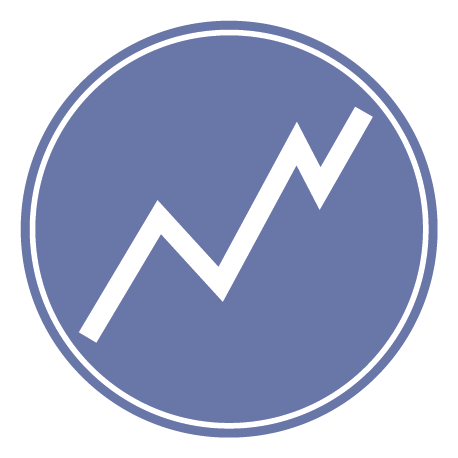
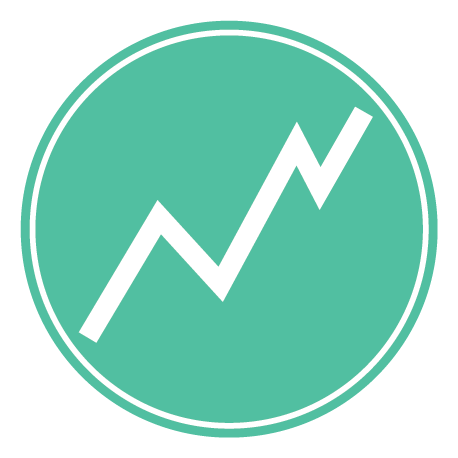
Made UI more consistent

diff --git a/src/components/Settings.js b/src/components/Settings.js
@@ -1,21 +1,73 @@
 import React from 'react';
-import { NavLink } from "react-router-dom";
+import { NavLink, Link } from "react-router-dom";
 import * as ROUTES from '../constants/routes';
 import firebase from './firebase.js';
 import Button from 'react-bootstrap/Button';
+import {Modal} from 'react-bootstrap';
+import { tsImportEqualsDeclaration } from '@babel/types';
+
 
 
 
 class settings extends React.Component {
 
+    constructor(props) {
+        super(props);
+        this.state = {
+            showDisclaimer:false,
+            errorMessage:''
+        }
+        this.handleSignOut = this.handleSignOut.bind(this);
+    }
+
+    handleSignOut() {
+    firebase.auth().signOut().catch(error => {
+        this.setState({ errorMessage: error.message });
+    }).then(this.props.history.push(ROUTES.LANDING));
+    }
+
     render() {
+        let showModal = () => {
+            this.setState({
+                showDisclaimer:true
+            });
+        }
+
+        let handleCloseDisclaimer = () => {
+            this.setState({
+                showDisclaimer:false
+            });
+        }
+
         return (
             <div className="settingsContainer">
                 <ul>
-                    <li>CLEAR DATA</li>
-                    <li>SEND REPORT</li>
-                    <li>PRIVACY</li>
-                    <NavLink to={ROUTES.QUESTIONNAIRE}><li>QUESTIONNAIRE</li></NavLink>
+                    <li onClick={showModal}>privacy</li>
+                    <Modal show={this.state.showDisclaimer} onHide={handleCloseDisclaimer}>
+                        <Modal.Header closeButton>
+                            <Modal.Title>Face Capture: Disclaimer</Modal.Title>
+                        </Modal.Header>
+                        <Modal.Body>
+                            <p>
+                            We will always ask for your permission before uploading your images to our database. It is important for us to store 
+                            this information as it allows us to look back on your skin health, and make better suggestions to your skincare routine.
+                            You will alwyas be in the driver's seat when it comes to what we store, as you have the ability to clear your data.
+                            </p>
+                            <p>
+                            Using the Face++ API, your uploaded picture will be scanned to get skin-health data.
+                            The scan will give us information related to the levels of acne, blemishes, dark circles, and general skin health.
+                            </p>
+                        </Modal.Body>
+                        <Modal.Footer>
+                            <Button onClick={handleCloseDisclaimer}>
+                                OK
+                            </Button>
+                        </Modal.Footer>
+                    </Modal>  
+                    <NavLink to={ROUTES.QUESTIONNAIRE}><li>questionnaire</li></NavLink>
+                    <Link to={ROUTES.LANDING} onClick={() => this.handleSignOut()}>
+                        <li>sign out</li>
+                    </Link>
                 </ul>
             </div>
         )

diff --git a/src/components/Customization.css b/src/components/Customization.css
@@ -15,12 +15,12 @@ div.customizationContainer div div.noProd {
     display:flex;
     justify-content: center;
     align-items: center;
-    border: 7px solid #6975A7;
+    border: 7px solid #2CD6A9;
 }
 
 div.customizationContainer div div.noProd h5 {
     font-style:italic;
-    color:#6975A7;
+    color:#2CD6A9;
 }
 
 /*Modal Search Bar*/
@@ -40,7 +40,7 @@ div.customizationContainer div.searchBar button.searchBtn {
 div.customizationContainer h3 {
     display:flex;
     justify-content:left;
-    color:#6975A7;
+    color:#2CD6A9;
 }
 
 div.customizationContainer div ul.productsList {
@@ -73,7 +73,7 @@ div.customizationContainer div ul.productsList li div.productItemContainer {
     height:100%;
     display:flex;
     flex-direction:row;
-    border-top:2px #6975A7 solid;
+    border-top:2px #2CD6A9 solid;
     padding-top:2rem;
     padding-bottom:2rem;
 }
@@ -128,7 +128,7 @@ div.customizationContainer div div.addContainer div.addButton:hover {
 }
 
 div.customizationContainer div ul.productsList li div.productItemContainer div.productBox {
-    border:7px solid #6975A7;
+    border:7px solid #2CD6A9;
     border-radius:10px;
     margin:16px;
     position:relative;
@@ -139,7 +139,7 @@ div.customizationContainer div ul.productsList li div.productItemContainer div.p
 }
 
 div.customizationContainer div ul.productsList li div.productItemContainer h6 {
-    color:#6975A7;
+    color:#2CD6A9;
     font-size:1.2rem;;
 }
 

diff --git a/src/App.css b/src/App.css
@@ -85,19 +85,19 @@ div.appContainer {
 }
 
 .mainNav div.container ul li a div.circle.one {
-  background-color:#DE5134;
+  background-color:#ff6347;
   background-size:contain;
   background-image:url('./images/icon_camera.png');
 }
 
 .mainNav div.container ul li a div.circle.two {
-  background-color:#6975A7;
+  background-color:#2CD6A9;
   background-size:contain;
   background-image:url('./images/icon_analytics.png');
 }
 
 .mainNav div.container ul li a div.circle.three {
-  background-color:#F3EA6B;
+  background-color:#29339B;
   background-size:contain;
   background-image:url('./images/icon_settings.png');
 }
@@ -131,7 +131,7 @@ div.appContainer {
 
 .mainNav div.settingsContainer {
   width:50rem;
-  border:5px solid #F3EA6B;
+  border:5px solid #29339B;
   border-radius:.5rem;
   margin:50px;
 }
@@ -140,7 +140,8 @@ div.appContainer {
   font-size:1.5rem;
   padding-bottom:2rem;
   padding-top:2rem;
-  border-bottom:2px solid #F3EA6B;
+  border-bottom:2px solid #29339B;
+  font-family:Futura;
 }
 
 .mainNav div.settingsContainer ul a {
@@ -149,6 +150,8 @@ div.appContainer {
 }
 
 .mainNav div.settingsContainer ul li:hover {
-  background-color:#F3EA6B;
+  background-color:#29339B;
+  color:white;
+  cursor: pointer;
 }
 

diff --git a/src/components/Customization.js b/src/components/Customization.js
@@ -174,7 +174,7 @@ class Customization extends Component {
                         </Button>
                     </Modal.Footer>
                 </Modal>
-                <h3>Current Skincare Routine</h3>
+                <h3>current skincare routine</h3>
                 <div>
                     {this.state.noProd && <div className="noProd"><h5>You have no current products in your skincare routine.</h5></div>}
                     {!this.state.isLoaded && <Spinner animation="border"/>}
@@ -183,7 +183,7 @@ class Customization extends Component {
                     </ul>
                     <div className="addContainer">
                         <div className="addButton" onClick={openAddProduct}>
-                            Add Product
+                            add product
                         </div>
                     </div>
                 </div>

diff --git a/src/components/Analytics.css b/src/components/Analytics.css
@@ -24,7 +24,8 @@ div.analyticsContainer div.headerContainer button.info {
 }
 
 div.analyticsContainer div.headerContainer h3 {
-    color:#6975A7;
+    color:#2CD6A9;
+    font-family:Futura;
 }
 
 div.analyticsContainer div.avgContainer {
@@ -43,7 +44,7 @@ div.analyticsContainer div.avgContainer div.avg {
 }
 
 div.analyticsContainer div.avgContainer div.avg h4 {
-    color:#95a5a6;
+    color:#2CD6A9;
 }
 
 div.analyticsContainer div.avgContainer div.avg img {

diff --git a/src/components/Home.js b/src/components/Home.js
@@ -53,11 +53,11 @@ class Home extends Component {
     return (
       <Router>
         <div id="appContainer" className="appContainer">
-          <div className="sign-out">
+          {/* <div className="sign-out">
             <Link to={ROUTES.LANDING} onClick={() => this.handleSignOut()}>
               Sign out
               </Link>
-          </div>
+          </div> */}
           <div className="mainNav">
           <Navbar />
             <Switch>

diff --git a/src/components/Analytics.js b/src/components/Analytics.js
@@ -232,7 +232,7 @@ class Analytics extends React.Component {
                 <br />
                 <Customization />
                 <div className="headerContainer">
-                    <h3>Skin Progress</h3>
+                    <h3>skin progress</h3>
                     <Button className="info" variant="secondary" onClick={openSkinInfo}>i</Button>
                     {   
                         this.state.isLoaded &&

diff --git a/src/components/Recommend.js b/src/components/Recommend.js
@@ -22,7 +22,7 @@ class Recommend extends Component {
     render() {
         return (
             <div className='recommend-component'>
-                <h2>Recommended Routine</h2>
+                <h2>recommended routine</h2>
                 <div className='regimen-box'>
                     {this.state.showSpinner && <Spinner animation="border"/>}
                     {

diff --git a/src/components/FaceCapture.css b/src/components/FaceCapture.css
@@ -6,13 +6,13 @@ div.face-capture-container {
 
 div.face-capture-container button {
     margin:1rem;
-    background-color:#DE5134;
+    background-color:#ff6347;
     color:white;
     font-family:Roboto;
 }
 
 div.face-capture-container div.fcContainer h1 {
-    color:#DE5134;
+    color:#ff6347;
 }
 
 div.face-capture-container div.fcContainer div.requirements {
